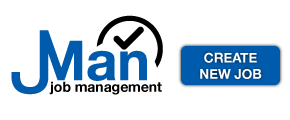
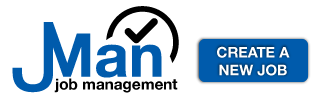
UI work

Changed region(s): [[0.031, 0.06, 0.9931, 0.93]]

diff --git a/Burke_Aaron_Project_2/App_A/index.html b/Burke_Aaron_Project_2/App_A/index.html
@@ -28,7 +28,7 @@
 
 </head>
 	<body>
-		<div id="home" data-role="page">
+		<div id="home" data-role="page" data-theme="d">
 
 			<div data-role="header" data-theme="b" data-position="fixed">
 				<h1>JOB MANAGER</h1>
@@ -36,8 +36,11 @@
 			<div data-role="content" data-theme="d" id="cta">
 				<a href="additem.html"><img src="images/cta.png" alt="cta"></a>
 			</div>
-			<div data-role="content" data-theme="d">	
-				<ul data-role="listview" data-inset="true" data-theme="d" data-divider-theme="b" data-filter="true">
+			<div data-role="content" data-theme="d" id="search">
+			  <input type="search" name="search-mini" id="search-mini" value="" data-mini="true" />
+			</div>
+			<div data-role="content" data-theme="d">
+				<ul data-role="listview" data-inset="true" data-theme="d" data-divider-theme="b">
 					<li data-role="list-divider">Browse By Job Type:</li>
 					<li><a href="#category-items?category=Banner"><h3>Banner</h3></a></li>
 					<li><a href="#category-items?category=Decal"><h3>Decal</h3></a></li>

diff --git a/Burke_Aaron_Project_2/App_A/css/styles.css b/Burke_Aaron_Project_2/App_A/css/styles.css
@@ -30,13 +30,13 @@ header{
 	padding: 0;
 	background-color: #cccccc;
 }
-#cta {
+/*#cta {
 	margin:0 auto;
 	width:100%;
 	padding-left: 10px;
 	margin-bottom:-30px;
 	margin-top: -5px;
-}
+}*/
 form {
 	width:100%;
 	margin:0;
@@ -174,4 +174,16 @@ input#clearData, input#displayData, input#searchDisplay, input#newJob {
 }
 form#search{
 	margin-left: -6px;
+}
+#search {
+	padding-bottom: 0;
+	padding-top: 0;
+}
+div#cta.ui-content.ui-body-d {
+	width: 320px;
+	margin: 0 auto;
+	padding:0;
+}
+div.ui-content.ui-body-d {
+	padding-top:0;
 }
